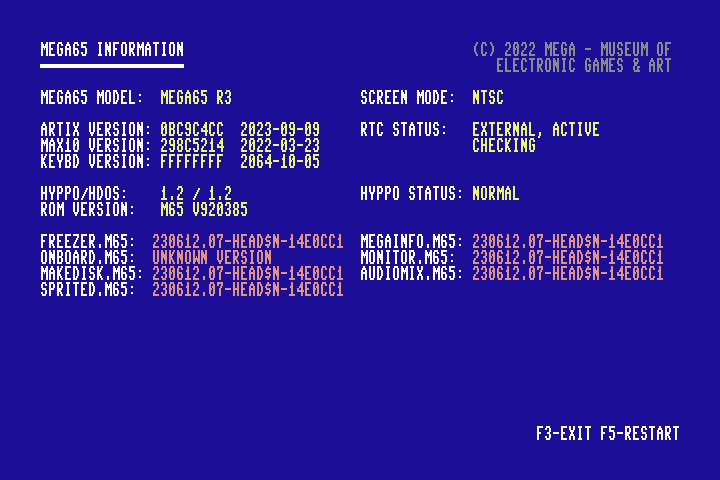
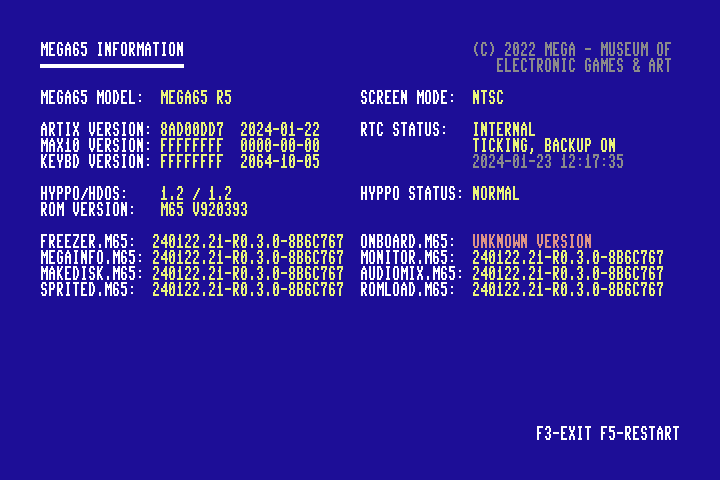
UG2: Updated and extended core flashing docs for new MEGAFLASH
This may need one more pass with one more MEGAFLASH update that implements flags. The MEGAINFO screenshot should also be updated for the final release.

diff --git a/cores-and-flashing.tex b/cores-and-flashing.tex
@@ -18,13 +18,13 @@ The ROM and system software are files that reside on the SD card, and upgrading 
 \subsection{What is a Core?}
 \index{Core!definition}
 
-The MEGA65 hardware architecture is based on a versatile chip called a ``Field Programmable Gate Array,'' or FPGA.\index{Field Programmable Gate Array (FPGA)} This is a special kind of computer chip that can be programmed to impersonate other chips. They do this by configuring a giant array of logic gates to reproduce circuits. FPGAs are not an emulation, but an electronic re-creation of other chips. FPGA code is sometimes referred to as {\em firmware,} a term you may recognize from modern computers and other devices.
+The MEGA65 hardware architecture is based on a versatile chip called a ``Field Programmable Gate Array,'' or FPGA.\index{Field Programmable Gate Array (FPGA)} This is a special kind of computer chip that can be programmed to impersonate other chips. It does this by configuring a giant array of logic gates to reproduce circuits. FPGAs are not an emulation, but an electronic re-creation of other chips. FPGA code is sometimes referred to as {\em firmware,} a term you may recognize from modern computers and other devices.
 
-Your MEGA65 was programmed at the factory to re-create a chipset designed by the MEGA65 team, based on the original Commodore 65. You can re-program the MEGA65 FPGA to upgrade to new versions of the MEGA65 chipset, or to replace the chipset with that of an entirely different computer!
+Your MEGA65 was programmed at the factory to re-create a chipset based on the original Commodore 65, designed by the MEGA65 team. You can re-program the MEGA65 FPGA to upgrade to new versions of the MEGA65 chipset, or to replace the chipset with that of an entirely different computer!
 
 Each possible chipset is known as a {\em core}. The MEGA65 can store up to eight cores, and you can switch between these cores by accessing a menu when you switch on the computer. You can also use this menu to load a new core from a file on the SD card, a process known as {\em flashing}.
 
-Members of the MEGA65 community have made several useful and fun alternate cores for the FPGA hardware. \href{https://github.com/MJoergen/C64MEGA65}{{\em C64 for MEGA65}} by MJoergen and sy2002 re-creates the original Commodore 64 computer with a high degree of accuracy, perfect for running Commodore 64 games, demos, and applications. Other cores re-create the ZX Spectrum, the Game Boy, and even the original Galaga arcade machine hardware. The MEGA65 team believes that the FPGA is powerful enough to re-create nearly all 8-bit home computers, and likely some 16-bit computers and consoles such as the Commodore Amiga. The MEGA65 hardware design, board layout, FPGA core, and other information are all available for free under various open-source licenses, so anyone is free to create other cores for the MEGA65 hardware.
+Members of the MEGA65 community have made several useful and fun alternate cores for the FPGA hardware. \href{https://github.com/MJoergen/C64MEGA65}{{\em C64 for MEGA65}} by MJoergen and sy2002 re-creates the original Commodore 64 computer with a high degree of accuracy, perfect for running Commodore 64 games, demos, and applications. Other cores re-create the ZX Spectrum, the Game Boy, and even the original Galaga arcade machine hardware. The MEGA65's FPGA is powerful enough to re-create nearly all 8-bit home computers, and likely some 16-bit computers and consoles such as the Commodore Amiga. The MEGA65 hardware design, board layout, FPGA core, and other information are all available for free under various open-source licenses, so anyone is free to create other cores for the MEGA65 hardware.
 
 \section{Determining the Versions of Things}
 \label{sec:versions}
@@ -53,11 +53,11 @@ Take note of these version identifiers:
   \hline
   MEGA65 Model\newline {\tt MEGA65 R6} & The revision of the hardware. You need to know this when downloading new core files. \\
   \hline
-  Artix Version\index{Core!Version}\newline {\tt 93D55F08 2022-10-12} & The currently running MEGA65 core. This is a string of eight letters and numbers, and also a build date. \\
+  Artix Version\index{Core!Version}\newline {\tt 8AD00DD7 2024-01-22} & The currently running MEGA65 core. This is a string of eight letters and numbers, and also a build date. \\
   \hline
-  ROM Version\index{ROM!Version}\newline {\tt M65 V920391} & The currently running ROM. For MEGA65 ROMs, this is a sequential number, with larger numbers representing newer releases. \\
+  ROM Version\index{ROM!Version}\newline {\tt M65 V920393} & The currently running ROM. For MEGA65 ROMs, this is a sequential number, with larger numbers representing newer releases. \\
   \hline
-  System files (.M65)\newline {\tt 221012.18-MASTER-5BBFDA9} & Each of the system software files has its own version identifier. Typically, you do not need to know these: you will upgrade these along with each core. The identifier is similar to the core version, but does not always match the currently running core. \\
+  System files (.M65)\newline {\tt 240122.21-R0.3.0-8B6C767} & Each of the system software files has its own version identifier. Typically, you do not need to know these: you will upgrade these along with each core. The identifier is similar to the core version, but does not always match the currently running core. \\
   \hline
 \end{tabularx}
 \end{center}
@@ -101,7 +101,7 @@ To download the latest release package:
   \item Click the entry. Confirm that this release package is for your hardware revision, then click ``Download'' to download the file.
 \end{enumerate}
 
-If you don't see an entry that says ``incl. ROM,'' check that you are signed in and that you have redeemed a valid owner code. Note that there is an entry for the Release Package that does not include the ROM that is visible to everyone. To ensure you are using a compatible set of files, get the package that says ``incl. ROM.''
+\underline{NOTE}: There is an entry for the Release Package that does not include the ROM that is visible to everyone. To ensure you are using a compatible set of files, get the package that says ``incl. ROM.'' If you don't see an entry that says ``incl. ROM,'' check that you are signed in and that you have redeemed a valid owner code.
 
 \begin{center}
   \fbox{\includegraphics[width=0.7\linewidth]{images/filehost_release.png}}
@@ -120,16 +120,16 @@ To open the core selection menu, switch off the computer, then hold the \special
   \includegraphics[width=0.7\linewidth]{images/ss-flashmenu.png}
 \end{center}
 
-You can select a core to boot using the cursor keys and \specialkey{RETURN}, or you can simply press the number key that corresponds to the slot. The boot process continues with the new core. The MEGA65 will keep running the new core until you physically power it off. (Pressing the reset button will not reset which core is being run.)
+You can select a core to boot using the cursor keys and \specialkey{RETURN}, or you can simply press the number key that corresponds to the slot. The boot process continues with the new core. The MEGA65 will keep running the new core until you switch it off. (Pressing the reset button will not reset which core is being run.)
 
-When you switch on the computer without opening the core selection menu, the MEGA65 looks for a core in slot 1. If there is a valid core in that slot, it uses it. Otherwise it tries slot 0.\footnote{You can change the default core slot from 1 to 2 by moving DIP switch \#4 to the ``on'' position. DIP switches are located inside the case, on the main board. For a diagram of the DIP switch locations, see \vref{cha:transferring-files}.}
+When you switch on the computer without opening the core selection menu, the MEGA65 looks for a default core. It first checks to see if any core is flagged as the default core (a setting you can change). If none are flagged, then it checks to see if there is a core in slot 1.\footnote{If DIP switch \#4 is in the ``on'' position, the MEGA65 checks slot 2 instead of slot 1. DIP switches are located inside the case, on the main board.} If the slot is empty, it uses slot 0.
 
-Your computer comes with the MEGA65 core in slot 0 installed at the factory. It is recommended that you do not upgrade the factory-installed core under most circumstances. Instead, install new versions of the MEGA65 core in slot 1.
+Your computer comes with the MEGA65 core in slot 0 installed at the factory. It is recommended that you do not upgrade the factory-installed core unless advised to do so by the MEGA65 team. Instead, install new versions of the MEGA65 core in slot 1.
 
 \section{Upgrading the MEGA65 Core, ROM, and System Files}
 \index{Core!Upgrading}\index{ROM!Upgrading}
 
-You can upgrade a core or install a new core from the core selection menu. This process reads the {\tt .cor} file from the SD card.
+You can upgrade a core, or install a new core, from the core selection menu. This process reads the {\tt .cor} file from the SD card.
 
 To upgrade the MEGA65 core, ROM, and system files:
 
@@ -138,48 +138,37 @@ To upgrade the MEGA65 core, ROM, and system files:
   \item Copy the {\tt .cor} file that you extracted from the {\tt .7z} archive to the SD card.
   \item On your PC, open the {\tt sdcard-files} folder from the {\tt .7z} archive, then copy those files to the SD card, replacing the existing files. Put them in the root of the SD card's file system, not a sub-folder.
   \item Eject the SD card from your PC's operating system, then move it back to the MEGA65.
-  \item Open the core selection menu: Switch off the MEGA65, then hold \specialkey{NO\\SCROLL} while switching it back on.
-  \item Hold \specialkey{CTRL} then press the number of the slot you want to upgrade. Follow the prompts. This process asks for a key press several times, and takes several minutes.
+  \item Open the core selection menu: switch off the MEGA65, then hold \specialkey{NO\\SCROLL} while switching it back on.
+  \item Hold \specialkey{CTRL} then press the number of the slot you want to upgrade. The slot editor opens.
+  \item Press \specialkey{F3} to load a core file. The file selector opens. Use the cursor keys to select the {\tt .cor} file, then press \specialkey{RETURN}.
+  \item Press \specialkey{F8} to flash the core slot. Allow the flashing process to complete. This takes several minutes.
+  \item When the flashing process is complete, press any key to return to the core selection menu.
 \end{enumerate}
 
-When you start the update process, it prompts you to select the {\tt .cor} file on a screen that looks similar to this:
+The slot editor looks like this:
+
+\begin{center}
+  \includegraphics[width=0.7\linewidth]{images/ss-flashmenu-sloteditor.png}
+\end{center}
+
+When you load a core file, it prompts you to select the {\tt .cor} file on a screen that looks similar to this:
 
 \begin{center}
   \includegraphics[width=0.7\linewidth]{images/ss-flashmenu-selectcore.png}
 \end{center}
 
-The process begins by checking that the core file matches your hardware revision. Press any key to continue.
-
-\begin{center}
-  \includegraphics[width=0.7\linewidth]{images/ss-flashmenu-1-checking.png}
-\end{center}
-
-It then copies the file from the SD card to RAM, performing another check that the core file is complete.
-
-\begin{center}
-  \includegraphics[width=0.7\linewidth]{images/ss-flashmenu-2-loading.png}
-\end{center}
-
-It presents the result of this check before proceeding. If the check is valid, you will see a message similar to the following. Press any key to continue.
-
-\begin{center}
-  \includegraphics[width=0.7\linewidth]{images/ss-flashmenu-3-checksum-ok.png}
-\end{center}
-
-If the check is invalid, you will see the message, ``CHECKSUM MISMATCH.'' If you were not expecting this message, abort the process and confirm that you are using the correct file.\footnote{There are rare cases where a core may be valid but not have a correct checksum, such as if you are installing older versions of the core.}
-
-Once you tell it to proceed, the MEGA65 begins programming the core data into flash memory. The border twinkles in coloured patterns during this process.
+Once you have selected the core, the slot editor shows the change it intends to make to the slot. After you start the flashing process, the display shows the progress.
 
 \underline{NOTE}: Do {\em not} switch off your computer or disconnect power until after this step is complete.
 
 \begin{center}
-  \fbox{\includegraphics[width=0.7\linewidth]{images/ss-flashmenu-4-programming.png}}
+  \includegraphics[width=0.7\linewidth]{images/ss-flashmenu-loading.png}
 \end{center}
 
-When the process is complete, you will see a screen similar to the following.
+When the message "Core was successfully flashed" is displayed, the process is complete.
 
 \begin{center}
-  \includegraphics[width=0.7\linewidth]{images/ss-flashmenu-done.png}
+  \includegraphics[width=0.7\linewidth]{images/ss-flashmenu-complete.png}
 \end{center}
 
 It is now safe to switch off your computer. Press any key to return to the core selection menu, or switch the computer off then on again to start the default core.
@@ -199,38 +188,56 @@ There are several reasons you might want to keep alternate ROMs on your SD card:
 
 \begin{itemize}
   \item You are helping to test a new beta release of the ROM, and do not wish to make the beta version your default ROM.
-  \item You want to try the MEGA65 OpenROM, a project to create an all-new ROM released under an Open Source license without any original Commodore material.
   \item You want to try the original Commodore 65 prototype ROM. The MEGA65 core maintains backwards compatibility with the C65 ROM that was in progress by Commodore before they cancelled the project. It is buggy and incomplete, but is still an interesting historical artifact.
+  \item You want to try an alternate ROM developed by the MEGA65 community. One such ROM is the MEGA65 OpenROM, a project to create an all-new ROM released under an Open Source license without any original Commodore material.
 \end{itemize}
 
 Several alternate ROMs came with your MEGA65 SD card, installed at the factory. Try rebooting your computer while holding down a number key to see what happens!
 
+\section{Setting Core Flags}
 
-% TODO: Document how to configure the boot core for cartridge types
+There are several options ("flags") that you can select for a core in the core editor. Press the number key that corresponds to the flag to toggle its value.
 
+To set the core to be the default core used when the MEGA65 is switched on without \specialkey{NO\\SCROLL} held down, set the "Default core" flag. If no core is set as the default core, then slot 1 is used as the default (or slot 2 if DIP switch \#4 is set to on).
+
+The "cartridge" flags determine which core is selected when a cartridge is present in the expansion slot. This allows you to choose a different default core based on the type of the cartridge. For example, you can set the MEGA65 core to handle MEGA65 cartridges, and a different core to handle C64 cartridges. By default, the MEGA65 core will handle C64 cartridges using "GO64" mode. You may prefer to change this to use the C64 core that you install separately.
+
+\begin{center}
+  \includegraphics[width=0.7\linewidth]{images/ss-flashmenu-flags.png}
+\end{center}
+
+\section{Erasing a Core Slot}
+
+The flashing process replaces whatever is in a core slot with the new core. If a core is already installed in the slot, flashing overwrites the existing core.
+
+If you wish to delete a core and leave the slot empty, edit the slot, press \specialkey{F4} to set the replacement to "Erase slot," then press \specialkey{F8} to flash the slot with empty data.
 
 \section{Upgrading the Factory Core in Slot 0}
 \index{Core!Upgrading Slot 0}
 
-It is possible to upgrade the factory-installed MEGA65 core in slot 0. You only need to do this in rare cases, such as if a newer version of the MEGA65 core includes changes or bug fixes for the start-up process. The process is elaborate, delicate, and could result in a MEGA65 that fails to start if something goes wrong. It is {\em strongly} recommended that you do not upgrade slot 0 unless the announcement for the release suggests that you do so. Most MEGA65 core upgrades are fully functional in slot 1, without needing to upgrade slot 0.
+It is possible to upgrade the factory-installed MEGA65 core in slot 0. You only need to do this in rare cases, such as if a newer version of the MEGA65 core includes changes or bug fixes for the start-up process. It is recommended that you do not upgrade slot 0 unless the announcement for the release suggests that you do so. Most MEGA65 core upgrades are fully functional in slot 1, without needing to upgrade slot 0.
 
-{\em Please read these instructions carefully before starting the procedure.}
+It is important that at least one core slot contains a functioning MEGA65 core. If something goes wrong during the flashing process, this may result in a non-functioning core in that slot. To help prevent accidents, the procedure for flashing slot 0 is slightly different from that of the other slots, and only an official MEGA65 core can be flashed to slot 0.
+
+{\em Please read these instructions carefully before starting the procedure.} To upgrade the core in slot 0:
 
 \begin{enumerate}
-  \item Prepare to use the {\em internal SD card only}. This may involve opening the case to make the SD card easier to access. Do {\em not} use the external microSD card slot for updating core slot 0.
-  \item Using your PC, rename the core file that you wish to install to this exact filename: {\tt UPGRADE0.COR} (That's the word {\tt UPGRADE}, the number zero, and {\tt .COR}, using uppercase letters.)
-  \item Install the latest MEGA65 core in slot 1, using the procedure described earlier. The core must be in the default non-zero slot to recover from any problems when updating slot 0. Boot this core to test that it works.
-  \item Open the core selection menu. Press \megasymbolkey and the comma key to start the flash procedure for slot 0. (You will not be prompted for a filename.)
+  \item Install the latest MEGA65 core in slot 1, using the procedure described earlier. The core must be in the default non-zero slot to recover from any problems when updating slot 0.
+  \item Launch core slot 1 to confirm that it works.
+  \item Open the core selection menu. Hold the \megasymbolkey and press the comma key to open the editor for slot 0.
+  \item Repeat the remainder of the flashing procedure to select the core file and flash the slot.
 \end{enumerate}
 
 \ifdefined\printmanual
 \else
-\underline{NOTE}: If you have a revision R3A MEGA65, have not previously upgraded slot 0, and \megasymbolkey and \megakey{,} does not start the procedure, you have an older slot 0 core that does not have this feature. You can work around this by restarting the core selection menu with slot 1. From the core selection menu, prepare to hold down \specialkey{NO\\SCROLL}, press the \megakey{1} key to boot into the core then immediately press and hold \specialkey{NO\\SCROLL}. The core selection menu re-opens using slot 1. Press \megasymbolkey and the comma key to complete the slot 0 upgrade.
+\underline{NOTE}: If you have a revision R3A MEGA65 and have not previously upgraded slot 0, the \megasymbolkey and the comma key will not start the procedure: you have an older slot 0 core that does not have this feature. You can work around this by restarting the core selection menu with slot 1. From the core selection menu, prepare to hold down \specialkey{NO\\SCROLL}, press the \megakey{1} key to boot into the core then immediately press and hold \specialkey{NO\\SCROLL}. The core selection menu re-opens using slot 1. Press \megasymbolkey and the comma key to complete the slot 0 upgrade.
 \fi
 
-If something goes wrong during the slot 0 flashing process, your MEGA65 may not start correctly. Before doing anything else, switch on your MEGA65, and wait a minute or so. It should notice that there is no valid core in slot 0, then proceed to start the core in slot 1. You can hold \specialkey{NO\\SCROLL} during this to open slot 1's core selection menu and restart the flashing process.
+If something goes wrong during the slot 0 flashing process, your MEGA65 may not start correctly. Before doing anything else, switch on your MEGA65, and wait a minute or so. After a while, it should notice that there is no valid core in slot 0, then proceed to start the core in slot 1. You can hold \specialkey{NO\\SCROLL} during this to open slot 1's core selection menu and restart the flashing process.
 
 If the MEGA65 cannot boot any core after several minutes, it may be stuck. You may be able to recover using a device known as a ``JTAG interface'' that connects your PC to the MEGA65 main board. This allows you to inject a bitstream directly into the FPGA. The part is inexpensive but not always available. Contact the MEGA65 team on the Discord (\url{https://mega65.org/chat}) for assistance.
+
+Core slot 0 cannot be assigned flags, such as to be the default core or to be associated with cartridge types. It will be used for these purposes if no other core is installed. It is recommended that you keep the latest MEGA65 core in slot 1, in addition to flashing slot 0.
 
 
 \section{Understanding The Core Booting Process}
